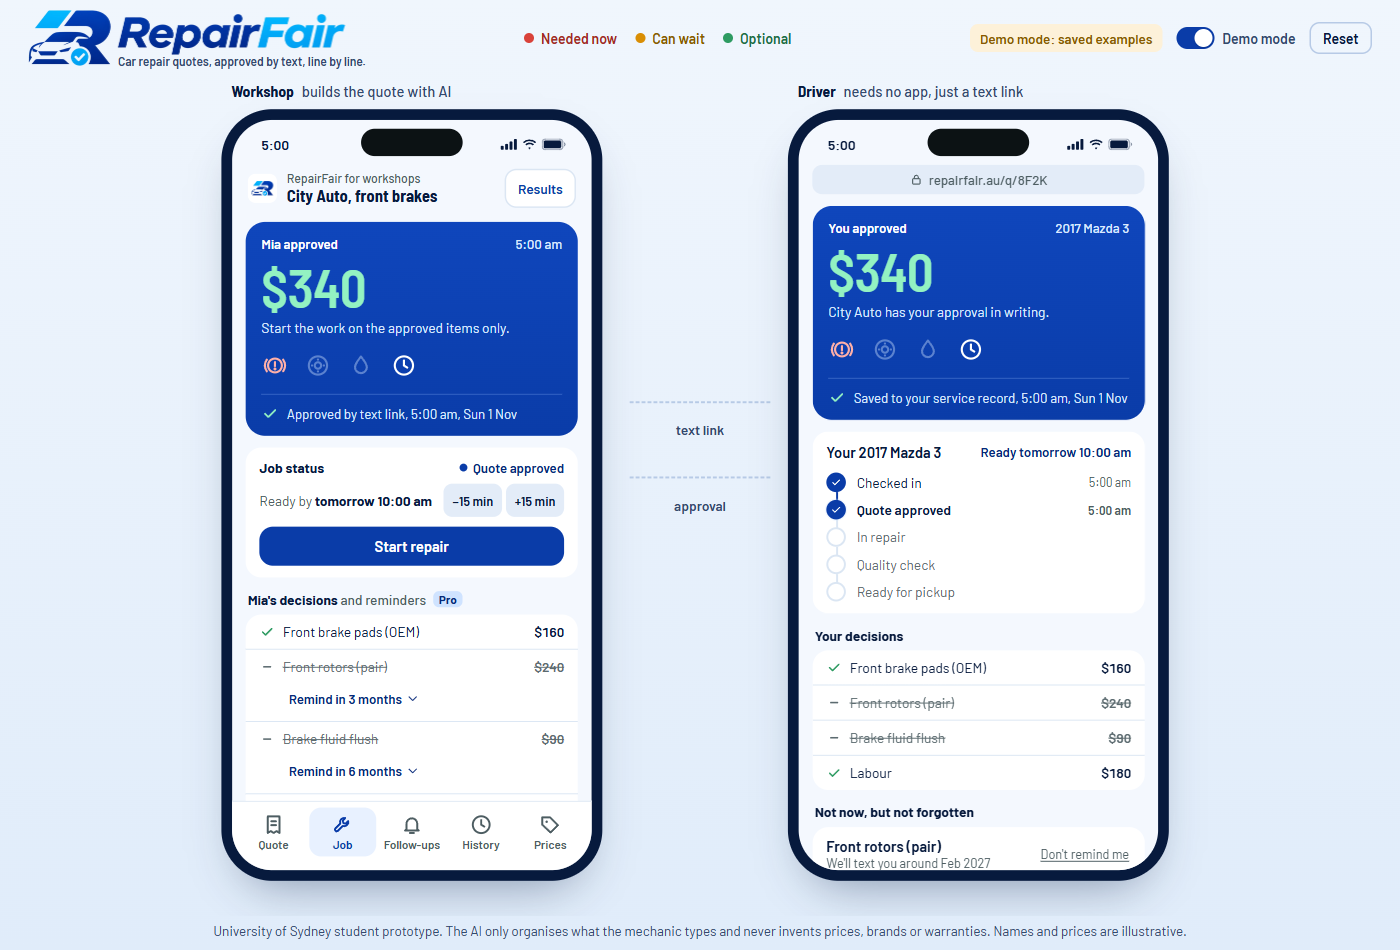
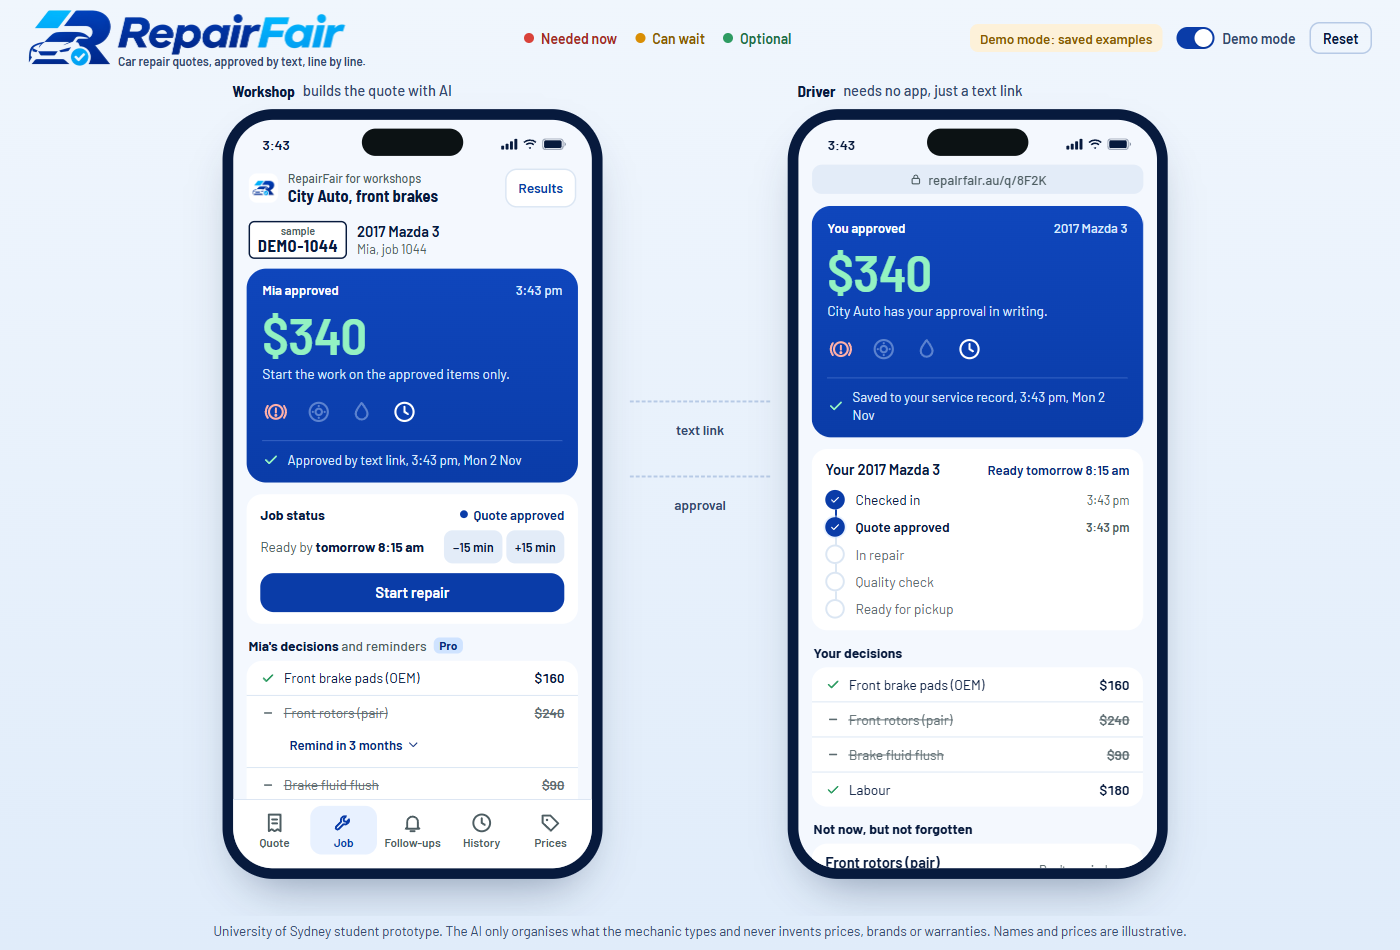
Add a car diagram and a job card header with a sample plate

diff --git a/static/app.js b/static/app.js
@@ -20,6 +20,8 @@ const AI_TIMEOUT_MS = 15000;
 const VOICE_MAX_SECONDS = 60;
 const WORKSHOP = "City Auto";
 const SAMPLE_ABN = "00 000 000 000";
+const SAMPLE_PLATE = "DEMO-1044";  // too long to be a real plate, and always shown with "sample"
+const URGENCY = ["needed_now", "to_confirm", "can_wait", "optional"];
 const PHONE_MASK = "04•• ••• 812";
 
 const SEED_HISTORY = [
@@ -394,6 +396,12 @@ function checkPanel(q, group) {
       return `<div class="ck-row ${r.how || "open"}"><span class="ck-ic"></span><span class="ck-t">${esc(r.text)}</span><span class="ck-a">${acts}</span></div>`;
     }).join("")}</div>`;
 }
+// The top of the job, like a job card. The plate's look isn't based on any state's design.
+function jobHead() {
+  const q = state.quote;
+  return `<div class="jobhead"><span class="plate"><small>sample</small>${SAMPLE_PLATE}</span>
+    <span class="jh-t"><b>${esc(q.car || "Job 1044")}</b><span>${esc(customer())}${q.car ? ", job 1044" : ""}</span></span></div>`;
+}
 function refreshCheck(group) {
   const el = $("checks-" + group);
   if (el) el.innerHTML = checkPanel(doc(group), group);
@@ -472,21 +480,21 @@ function wsQuoteTab() {
       return `<div class="lbl">Mechanic's notes</div><textarea rows="11" disabled>${esc(state.notes)}</textarea>
         <div class="loading"><span class="spin"></span>AI is building the standard quote…</div><div class="skel"></div><div class="skel"></div>`;
     case "draft":
-      return `${state.notice ? `<div class="notice">${esc(state.notice)}</div>` : ""}<div id="checks-quote">${checkPanel(q, "quote")}</div>
-        <div class="lead">${esc(q.job_title)}${q.car ? `, ${esc(q.car)}` : ""}</div>
+      return `${jobHead()}${state.notice ? `<div class="notice">${esc(state.notice)}</div>` : ""}<div id="checks-quote">${checkPanel(q, "quote")}</div>
+        <div class="lead">${esc(q.job_title)}</div>
         ${reportedLine(q, "Customer reported")}
         ${q.items.map((it, i) => wsCard(it, i, "quote")).join("")}
         <div class="etaline">${ic("time", 18)}Ready ${esc(etaText(etaFrom(new Date(), labourHrs(q.items, true))))} if approved now (from labour hours)</div>
         <div class="preview"><div class="to"><span>Text message to ${esc(customer())}</span><span>${PHONE_MASK}</span></div><div class="bubble me">${esc(smsText())}</div></div>
         <button class="btn soft" data-act="edit">Edit notes and rebuild</button>`;
     case "sent":
-      return `${tracker("Quote", [["Sent", state.sentAt], ["Delivered", state.deliveredAt], ["Viewed", state.viewedAt], ["Approved", null]],
+      return `${jobHead()}${tracker("Quote", [["Sent", state.sentAt], ["Delivered", state.deliveredAt], ["Viewed", state.viewedAt], ["Approved", null]],
           { read: state.viewedAt ? "Viewing now" : "Waiting", cls: "amber",
             sub: state.viewedAt ? `${esc(customer())} is looking at the quote now.` : `You'll get a notification when ${esc(customer())} responds.`,
             foot: `Checked by you before sending, ${esc(stampOf(q.checkedAt))}` })}
         <div class="lbl">Quote sent</div><div class="sheet">${q.items.map((i) => `<div class="row">${ic(itemIcon(i), 22, "ic " + lightOf(i))}<div><div class="it">${esc(i.name)}</div>${stLabel(i)}</div><span class="price">${money(priceOf(i))}</span></div>`).join("")}</div>`;
     default:
-      return `<div class="cluster"><div class="cl-top"><b>Quote approved</b><span>${esc(timeOf(state.approvedAt))}</span></div>
+      return `${jobHead()}<div class="cluster"><div class="cl-top"><b>Quote approved</b><span>${esc(timeOf(state.approvedAt))}</span></div>
           <div class="readout md green">${money(sumApproved(q.items))}</div>
           <div class="cl-sub">${esc(customer())} approved this quote. The work is now in the Job tab.</div></div>
         <button class="btn primary" data-tab="job">Open the job</button>`;
@@ -501,7 +509,7 @@ function wsJobTab() {
   const err = state.err ? `<div class="err">${esc(state.err)}<button class="btn soft" data-act="use-demo">Use saved examples</button></div>` : "";
   if (state.stage == null) return `<div class="blank">${ic("part", 36)}<b>No job in progress</b>A job starts here as soon as a customer approves a quote.</div>`;
   // One panel for the approval (the same lights Mia sees), then the job, then her decisions with their reminders
-  let h = `<div class="cluster"><div class="cl-top"><b>${esc(customer())} approved</b><span>${esc(timeOf(state.approvedAt))}</span></div>
+  let h = `${jobHead()}<div class="cluster"><div class="cl-top"><b>${esc(customer())} approved</b><span>${esc(timeOf(state.approvedAt))}</span></div>
       <div class="readout green">${money(sumApproved(q.items))}</div>
       <div class="cl-sub">Start the work on the approved items only.</div>
       ${lamps(q.items, "ws")}
@@ -803,8 +811,34 @@ function drSections(q) {
   return `${needs.length ? `<div class="lead" lang="${state.lang}">${esc(tr("What your car needs"))}</div>${list(needs)}` : ""}
     ${addons.length ? `<div class="addons" lang="${state.lang}"><div class="lead">${esc(tr("Optional add-ons"))}</div><p>${esc(tr(ADDON_NOTE))}</p></div>${list(addons)}` : ""}`;
 }
+// Which wheels an item is at, only when its name says so clearly. Brake fluid, labour and anything unclear get no highlight.
+function wheelsOf(it) {
+  const n = it.name.toLowerCase();
+  if (it.kind === "labour" || /fluid|flush|oil|light|lamp|bulb|switch|pedal|booster|master/.test(n)) return [];
+  if (!/\b(brakes?|pads?|rotors?|discs?|shoes?|calipers?|tyres?|tires?)\b/.test(n)) return [];
+  const sides = /\bleft\b/.test(n) ? ["l"] : /\bright\b/.test(n) ? ["r"] : ["l", "r"];
+  return [/\bfront\b/.test(n) && "f", /\brear\b/.test(n) && "r"].filter(Boolean).flatMap((end) => sides.map((s) => end + s));
+}
+// A wheel lights in the urgency colour of the most urgent item switched on there, like the lamps. Quoted but off keeps a ring.
+function wheelClass(items, w) {
+  const here = items.filter((i) => wheelsOf(i).includes(w));
+  const st = URGENCY.find((s) => here.some((i) => i.approved && i.status === s));
+  return `wheel ${here.length ? "quoted" : ""} ${st ? `on ${st}` : ""}`;
+}
+const WHEELS = { fl: [3, 21], fr: [51, 21], rl: [3, 79], rr: [51, 79] };
+// A car from above with its front at the top, like the door warning on a dashboard. Left out when no item has a known place.
+function carDiagram(items) {
+  if (!items.some((i) => wheelsOf(i).length)) return "";
+  return `<svg class="car" viewBox="0 0 64 120" width="64" height="120" role="img" aria-label="Car from above, with the quoted work lit up">
+    <path class="car-body" d="M32 3C20 3 13 7 11.5 17L9.5 48V92C9.5 106 13 116 24 117H40C51 116 54.5 106 54.5 92V48L52.5 17C51 7 44 3 32 3Z"/>
+    <path class="car-glass" d="M17 47C24 42 40 42 47 47L44 59C36 56 28 56 20 59ZM20 92C28 95 36 95 44 92L47 102C38 106 26 106 17 102Z"/>
+    <path class="car-line" d="M20 59V92M44 59V92M10 47L5.5 45M54 47L58.5 45"/>
+    ${Object.entries(WHEELS).map(([w, [x, y]]) => `<rect class="${wheelClass(items, w)}" id="wheel-${w}" x="${x}" y="${y}" width="10" height="21" rx="3.5"/>`).join("")}
+  </svg>`;
+}
 function drQuotePanel(q) {
-  return `<div class="cluster"><div class="cl-top"><b>City Auto</b><span>${esc(carName())}</span></div>
+  const car = carDiagram(q.items);
+  return `<div class="cluster ${car ? "with-car" : ""}"><div class="cl-top"><b>City Auto</b><span>${esc(q.job_title)}</span></div>${car}
     <div class="readout" id="drRead">${money(sumApproved(q.items))}</div>
     <div class="cl-sub" id="drSub">to approve today, out of ${money(sumAll(q.items))} quoted</div>
     ${lamps(q.items, "quote")}
@@ -819,6 +853,7 @@ function toggleItem(group, i) {
   row.classList.toggle("off", !it.approved);
   row.querySelector(".sw").setAttribute("aria-checked", it.approved);
   $(`lamp-${group}-${i}`).classList.toggle("on", it.approved);
+  Object.keys(WHEELS).forEach((w) => $(`wheel-${w}`)?.setAttribute("class", wheelClass(state.quote.items, w)));
   const read = $("drRead");
   read.textContent = money(sumApproved(state.quote.items));
   pulse(read);
@@ -875,7 +910,7 @@ function renderDriver() {
     case "notified": return lockScreen(true);
     case "thread": return thread();
     case "quote":
-      return `${drQuotePanel(q)}${langBar()}
+      return `${jobHead()}${drQuotePanel(q)}${langBar()}
         <div class="etaline">${ic("time", 18)}${q.eta_note ? esc(q.eta_note) : `If you approve now: ready ${esc(etaText(etaFrom(new Date(), labourHrs(q.items, true))))}`}</div>
         ${tbcBox(q)}
         ${reportedLine(q, "You told us")}

diff --git a/static/style.css b/static/style.css
@@ -537,3 +537,23 @@ textarea:disabled { color: var(--muted); background: var(--grey-bg); }
 .inv .res { min-height: 46px; }
 .inv .res b { font-size: 18px; }
 .inv .res:last-child { background: var(--brand-50); }
+
+/* job card header: a sample plate, the car and the job */
+.jobhead { display: flex; align-items: center; gap: 10px; margin: 2px 2px 10px; }
+.plate { flex: none; display: inline-flex; flex-direction: column; align-items: center; background: #fff; border: 1.5px solid var(--ink); border-radius: 6px; padding: 2px 8px 4px; color: var(--ink); font: 700 17px/1 var(--display); letter-spacing: .6px; white-space: nowrap; }
+.plate small { font-family: Barlow, sans-serif; font-size: 11px; font-weight: 600; line-height: 1.2; color: var(--muted); letter-spacing: 0; }
+.jh-t { min-width: 0; line-height: 1.25; }
+.jh-t b { display: block; font-size: 15px; font-weight: 600; color: var(--ink); }
+.jh-t span { display: block; font-size: 13px; color: var(--muted); }
+
+/* car from above in the driver's panel: wheels light like the lamps */
+.cluster.with-car { position: relative; }
+.with-car .cl-sub { padding-right: 76px; }
+.car { position: absolute; right: 14px; top: 38px; }
+.car-body { fill: var(--cl-raise); stroke: var(--cl-soft); stroke-width: 1.5; }
+.car-glass { fill: var(--cluster); stroke: var(--cl-off); stroke-width: 1.2; }
+.car-line { fill: none; stroke: var(--cl-soft); stroke-width: 1.5; stroke-linecap: round; }
+.wheel { fill: var(--cl-off); stroke: var(--cluster); stroke-width: 1.5; transition: fill .2s var(--ease-out), stroke .2s var(--ease-out); }
+.wheel.quoted { fill: var(--cluster); stroke: var(--cl-soft); }
+.wheel.on { stroke: var(--cluster); }
+.wheel.on.needed_now { fill: var(--lit-red); } .wheel.on.can_wait { fill: var(--lit-amber); } .wheel.on.optional { fill: var(--lit-green); } .wheel.on.to_confirm { fill: var(--cl-ink); }

diff --git a/docs/how-it-works.md b/docs/how-it-works.md
@@ -106,6 +106,10 @@ RepairFair is a small web app. A Python server passes the mechanic's notes to th
 
 **Voice notes.** The browser records with `MediaRecorder`, and `/api/transcribe` sends the audio to OpenAI and returns text for the notes box. The server keeps the audio in memory for that request only, and the browser drops it, so only the text remains.
 
+**Car diagram.** `carDiagram()` draws a car from above in Mia's panel, as inline SVG with no text on it, so it reads the same in every language. `wheelsOf()` gives an item's wheels only when its name clearly says where, such as "Front brake pads" or "Rear brake hose". Labour, brake fluid and anything unclear get no highlight, and the car is left out if no item has a known place. A wheel lights in the urgency colour of the most urgent item switched on there, and a wheel with its items switched off keeps a ring.
+
+**Job header.** `jobHead()` shows a plate, the car and the job number at the top of the job on both phones. The plate DEMO-1044 is a sample, labelled as one, and its plain look isn't based on any state's design.
+
 **Add-ons.** `drSections()` splits Mia's quote: "optional" items go in their own section, and everything else stays under what the car needs. Only the layout changes, so switches and totals work as before.
 
 **Invoice.** `invoice()` builds the lines from Mia's approvals, so there's nothing to retype, and approved items with no agreed price are left off. The screen has no input for a line, so a new charge has to go through the extra-item approval. `wsInvoice()` shows the draft and the send. Sending freezes a copy in `state.inv` and links it to the job in History, and no new extra can start after that. `invoiceSheet()` draws the same invoice on both phones, in English only. Prices include GST, so GST is one eleventh of the total. The ABN is a sample, and the invoice hasn't been checked against tax invoice rules.
@@ -126,7 +130,7 @@ RepairFair is a small web app. A Python server passes the mechanic's notes to th
 - **No Xero connection.** The send is a demo. Only the CSV download is real.
 - **No payments.** **Mark as paid** only records that the customer paid. The invoice text is simulated like the others, and the ABN is a sample.
 - **No accounts or database.** Everything sits in browser memory, and **Reset** or a page refresh clears it.
-- **Sample data only.** The history, price book, follow-ups, typical part prices and Results figures are invented examples.
+- **Sample data only.** The history, price book, follow-ups, number plate, typical part prices and Results figures are invented examples.
 - **Local only.** It runs on your computer and isn't hosted online.
 
 Taking it to real users would need a database, sign-in, a text-message service such as Twilio, online hosting, and privacy handling for customer details.

diff --git a/README.md b/README.md
@@ -37,6 +37,7 @@ answers, not sales.
 - Parts can be offered in four quality tiers: Used, Economy, OEM and Premium.
 - The AI only organises what the mechanic wrote. It is told never to invent prices, brands, part numbers or
   warranties, and anything missing is listed for the workshop to confirm before sending.
+- **Job card header:** a sample number plate, the car and the job number sit at the top of the job on both phones.
 - **Mechanic check:** every gap must be fixed or marked to confirm later, and a "needed now" item needs a photo or
   measurement. Sending stays locked until the mechanic signs off.
 - **Price book:** the workshop's own prices, brands and part numbers fill the gaps.
@@ -55,6 +56,8 @@ answers, not sales.
 - Sees the work the car needs first, with add-ons the garage recommends in their own section, so an add-on doesn't read
   like required work.
 - Switches items on or off one by one, and items left off become "not now" for later.
+- Sees where the work is: a car from above in the top panel lights the wheels each item is at, in its urgency colour. It
+  only lights when the item's name clearly says where, so brake fluid and labour stay dark.
 - Reads a plain-English reason for each item and a fair price check against typical ranges.
 - Can view item names, reasons and urgency labels in Chinese or Vietnamese. These are AI translations, and the English quote
   stays the record. Prices and approvals don't change.
@@ -136,7 +139,7 @@ Use **Reset** to start again. If the internet or AI fails, tick **Demo mode** (i
 
 This is a student prototype that runs locally, not a launched product. There are no paying customers. The next step
 is a 10-day pilot with two workshops, with continue and stop criteria set in advance. Names, phone numbers and
-prices in the demo are illustrative. Parts price ranges, the ABN and Results figures are samples, and texts, booking and
+prices in the demo are illustrative. Parts price ranges, the number plate, the ABN and Results figures are samples, and texts, booking and
 Send to Xero are simulated. Invoices are built from approvals but aren't checked against tax invoice rules, and marking
 one paid only records it: no money moves. In Demo mode, voice notes add a saved example instead of recording. Translations haven't been checked by fluent speakers, and part names can be wrong.
 
